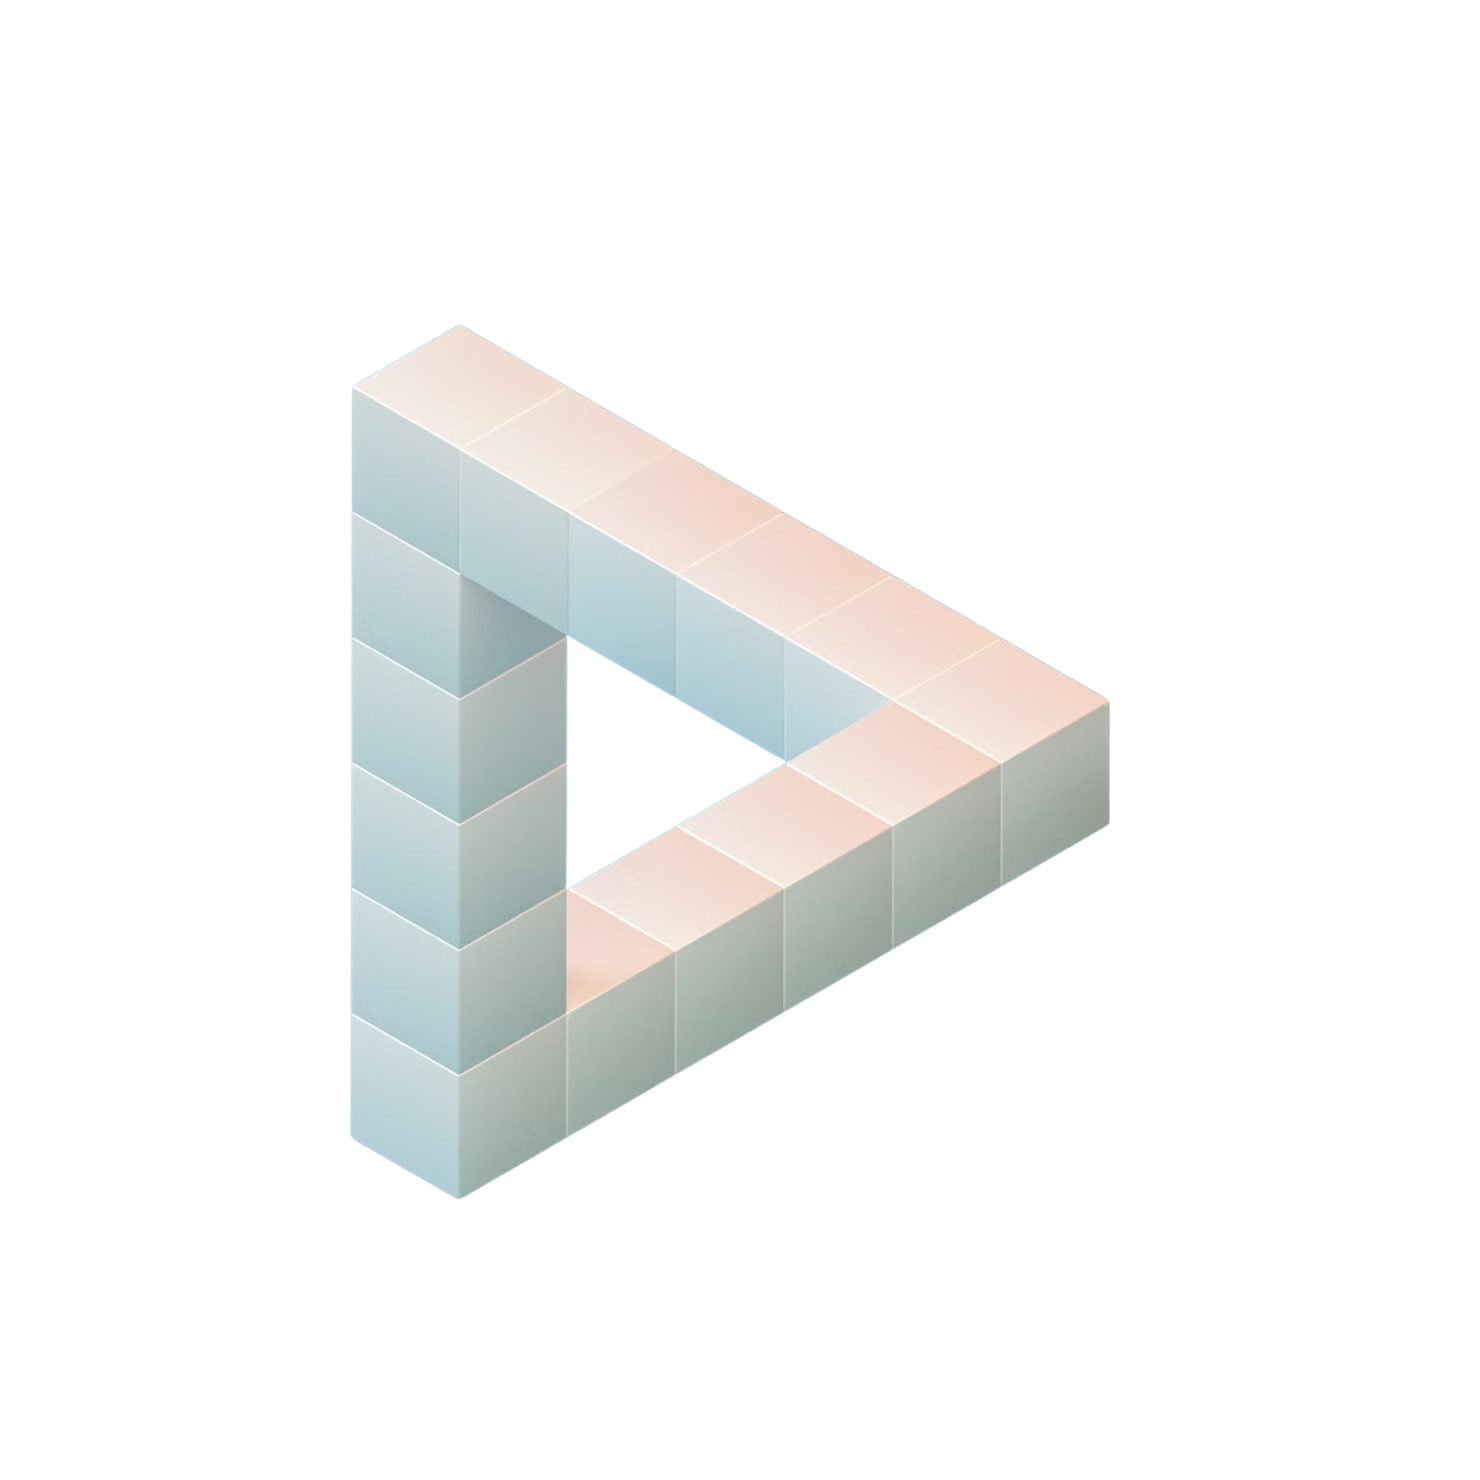
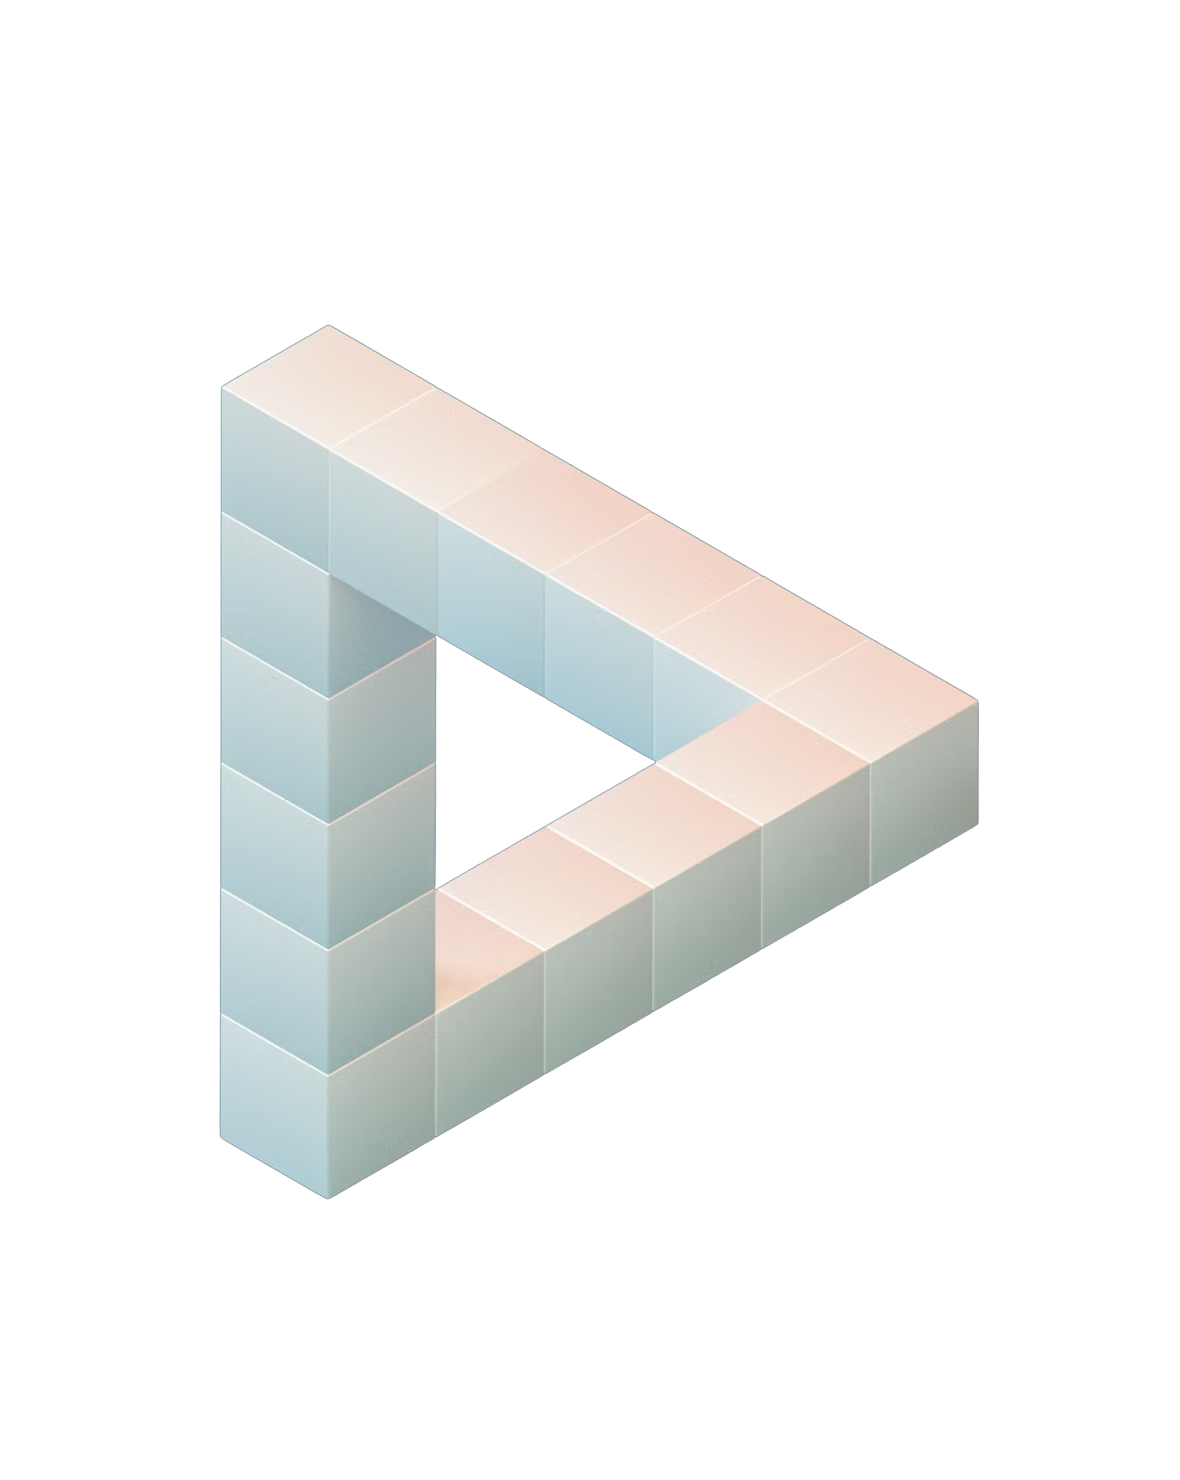
changed image size

diff --git a/app/services/page.jsx b/app/services/page.jsx
@@ -19,8 +19,8 @@ const page = () => {
           Intro={introText}
           imgPath="/images/services/services-hero.png"
           imgAlt="Assembling Jigsaw pieces indicating fulfilling customer needs"
-          w="315"
-          h="189"
+          w="405"
+          h="243"
         />
 
         <Services />
